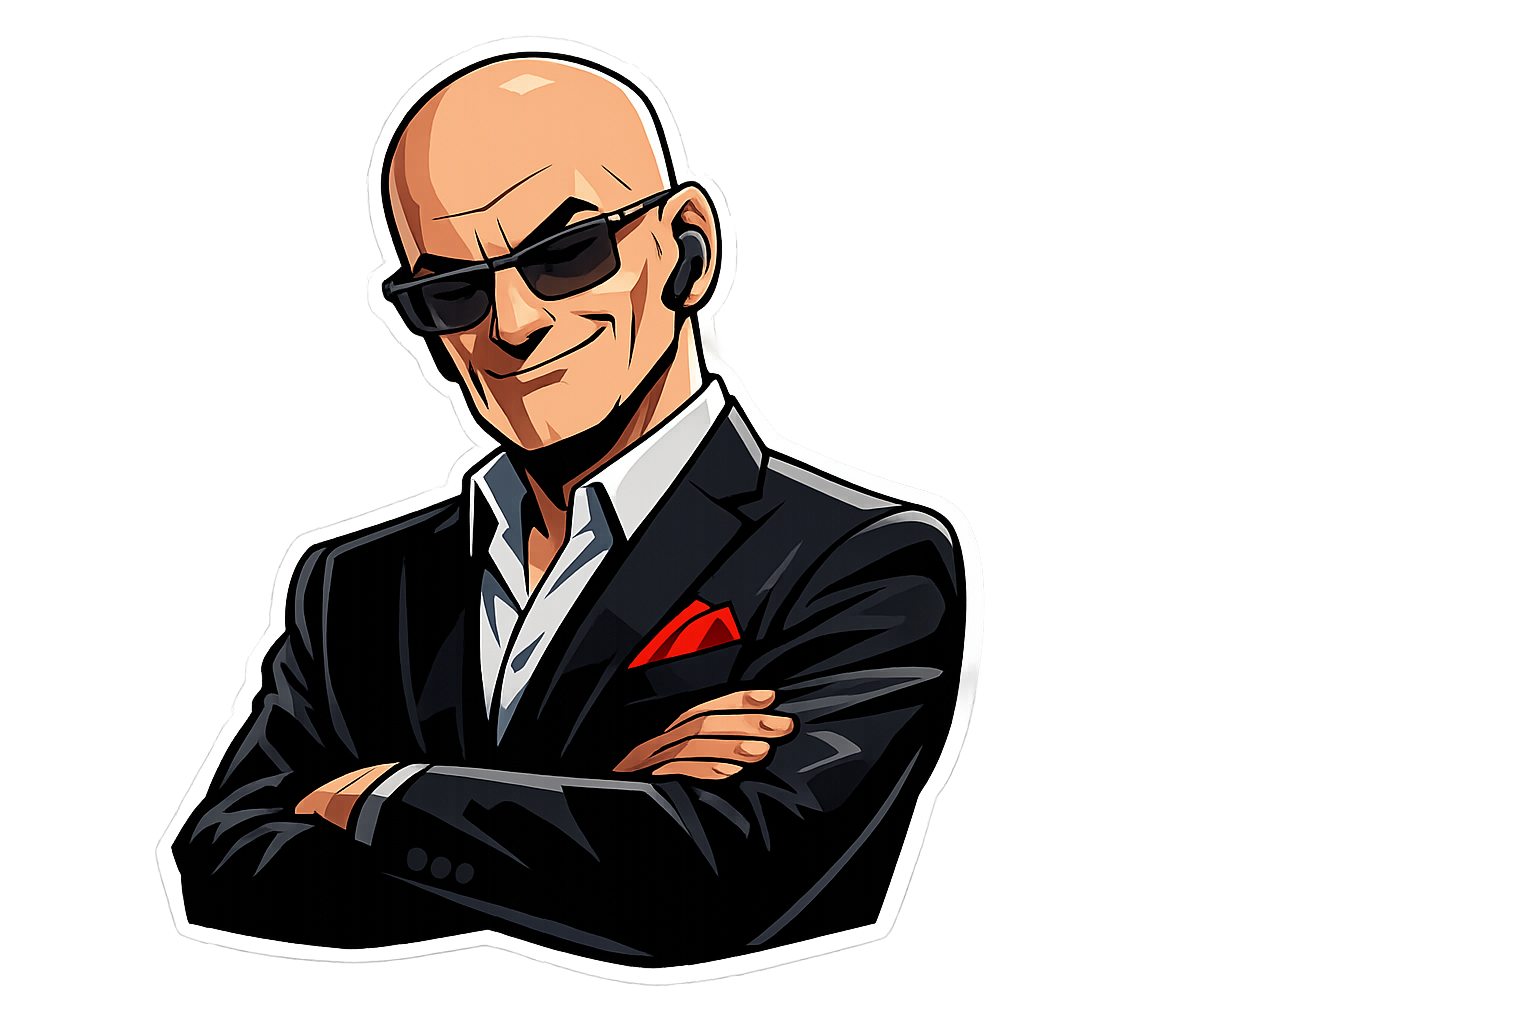
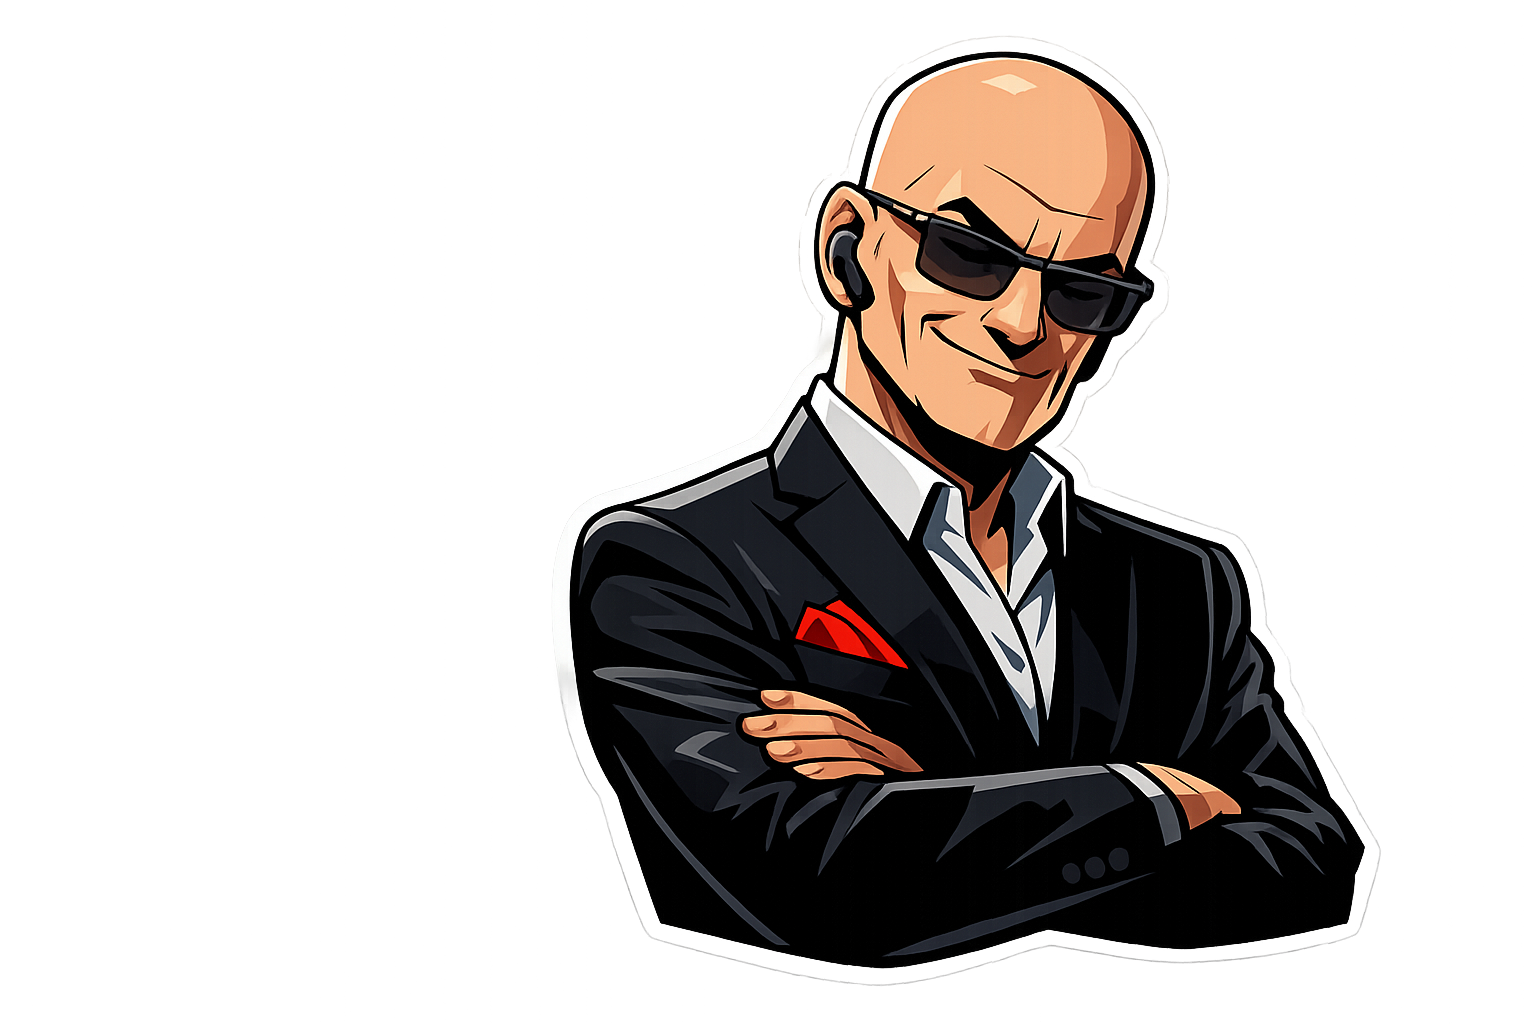
fix(dashboard): restore card layout with improved image spacing and text readability
- Reverted to flex column layout with image on top, text below
- Increased image aspect ratio from 3/4 to 4/5 for more vertical space
- Increased description font size from text-sm to text-base
- Changed description color from text-gray-400 to text-gray-300 for better readability
- Increased padding and gap for better visual hierarchy
- Optimized ceo-persona.png image size (2.2MB -> 793KB)

diff --git a/src/pages/Dashboard.tsx b/src/pages/Dashboard.tsx
@@ -121,33 +121,24 @@ function AppCard({ app }: { app: AppEntry }) {
   return (
     <TiltCard
       shadow={app.shadow}
-      className="group relative aspect-[3/4] overflow-hidden rounded-3xl border border-white/10 bg-zinc-900 shadow-none transition-shadow duration-300 hover:scale-105 hover:-translate-y-1"
+      className="group relative overflow-hidden rounded-3xl border border-white/10 bg-zinc-900 shadow-none transition-shadow duration-300 hover:scale-105 hover:-translate-y-1"
     >
-      <Link to={app.route} className="block h-full w-full">
-        {/* Image fills entire card */}
-        <img
-          src={app.image}
-          alt={app.name}
-          decoding="async"
-          className="absolute inset-0 h-full w-full object-cover transition-all duration-300 group-hover:scale-105 group-hover:brightness-110"
-        />
+      <Link to={app.route} className="flex h-full flex-col">
+        <div className="relative aspect-[4/5] w-full overflow-hidden">
+          <img
+            src={app.image}
+            alt={app.name}
+            decoding="async"
+            className="absolute inset-0 h-full w-full object-cover transition-all duration-300 group-hover:scale-105 group-hover:brightness-110"
+          />
+          <div className="pointer-events-none absolute inset-0 bg-gradient-to-t from-black/40 to-transparent" />
+        </div>
         
-        {/* Gradient overlay for readability */}
-        <div className="pointer-events-none absolute inset-0 bg-gradient-to-t from-black/60 via-black/20 to-transparent" />
-        
-        {/* Title always visible at bottom */}
-        <div className="absolute bottom-0 left-0 right-0 p-4">
+        <div className="flex flex-1 flex-col gap-3 p-5">
           <h2 className="text-lg font-bold uppercase tracking-wide text-white">
             {app.name}
           </h2>
-        </div>
-        
-        {/* Description slides up on hover */}
-        <div className="absolute bottom-0 left-0 right-0 translate-y-full p-4 backdrop-blur-md bg-zinc-950/70 transition-all duration-300 ease-in-out group-hover:translate-y-0">
-          <h2 className="mb-2 text-lg font-bold uppercase tracking-wide text-white">
-            {app.name}
-          </h2>
-          <p className="text-sm font-medium leading-relaxed text-white">
+          <p className="text-base font-medium leading-relaxed text-gray-300">
             {app.description}
           </p>
         </div>
